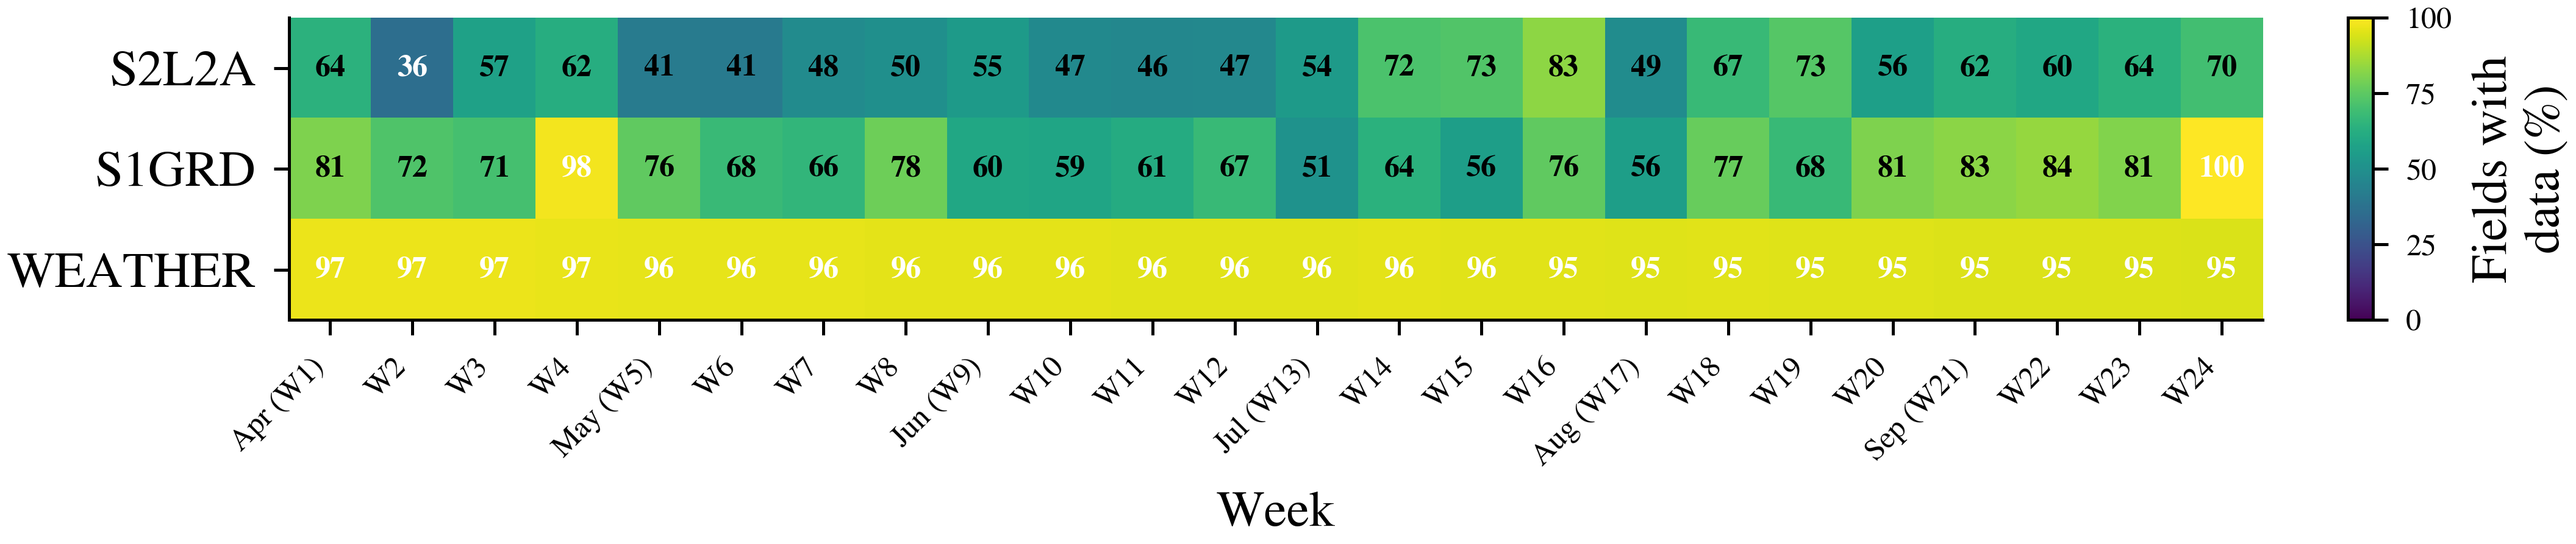
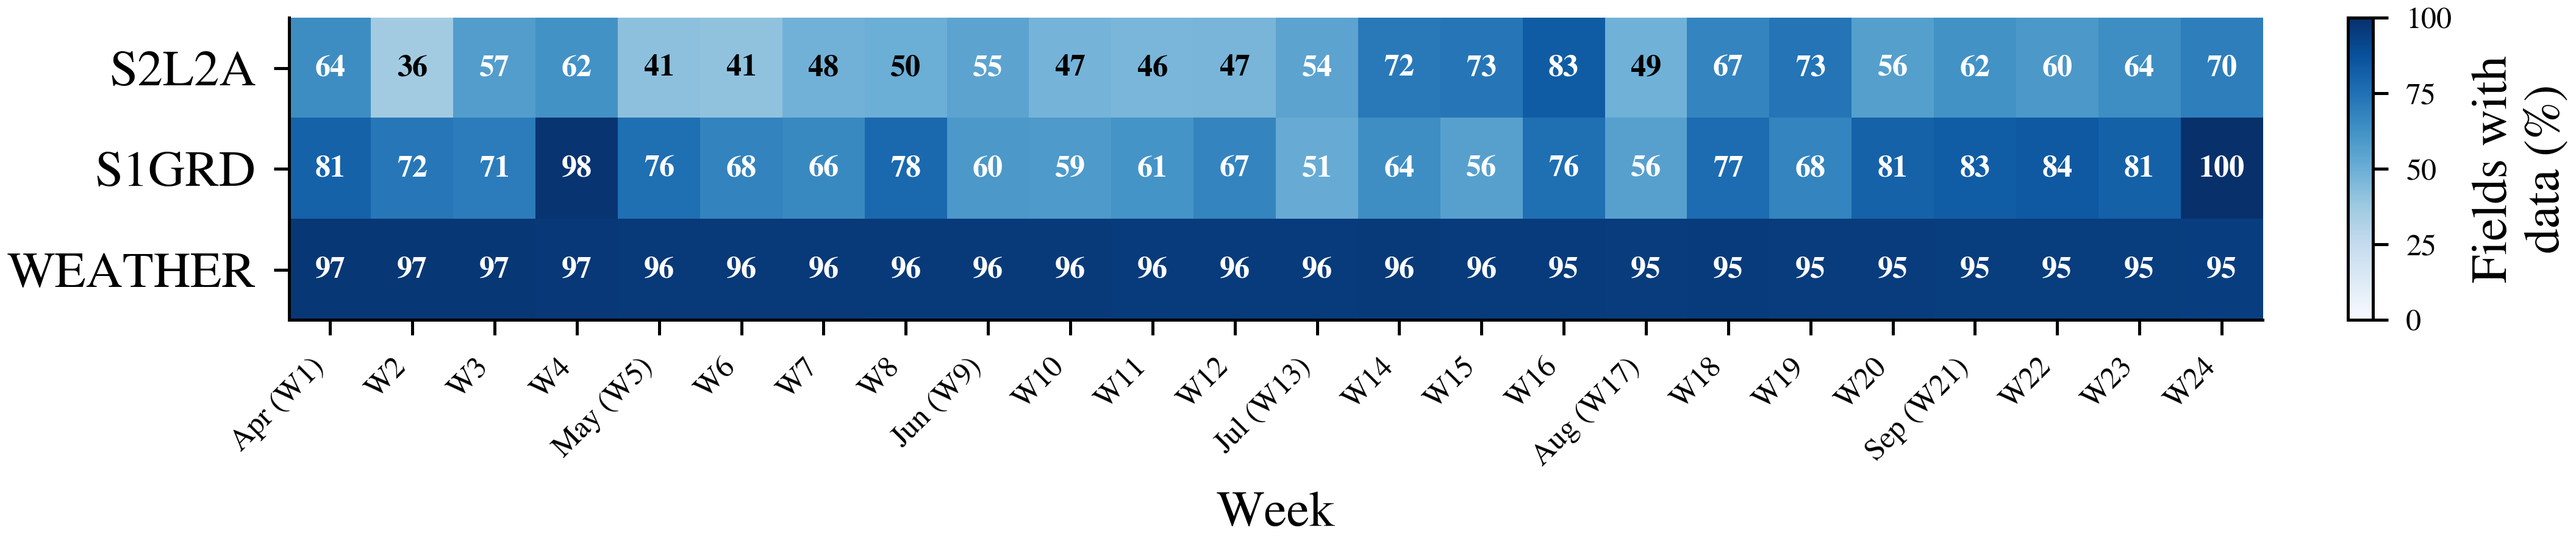
DEV: Updated availability figure

diff --git a/generate_journal_figures.py b/generate_journal_figures.py
@@ -1712,7 +1712,7 @@ def fig19_weekly_availability():
     # ---- Plot ----
     fig, ax = plt.subplots(figsize=(DOUBLE_COL, 1.6))
 
-    im = ax.imshow(matrix, cmap='viridis', aspect='auto', vmin=0, vmax=100)
+    im = ax.imshow(matrix, cmap='Blues', aspect='auto', vmin=0, vmax=100)
 
     # Ticks
     ax.set_xticks(range(24))
@@ -1724,7 +1724,7 @@ def fig19_weekly_availability():
     for i in range(len(modalities)):
         for j in range(24):
             val = matrix[i, j]
-            color = 'white' if val < 40 or val > 85 else 'black'
+            color = 'white' if val >= 50 else 'black'
             ax.text(j, i, f'{val:.0f}', ha='center', va='center',
                     fontsize=SMALL_TICK_SIZE, color=color, fontweight='bold')
 
